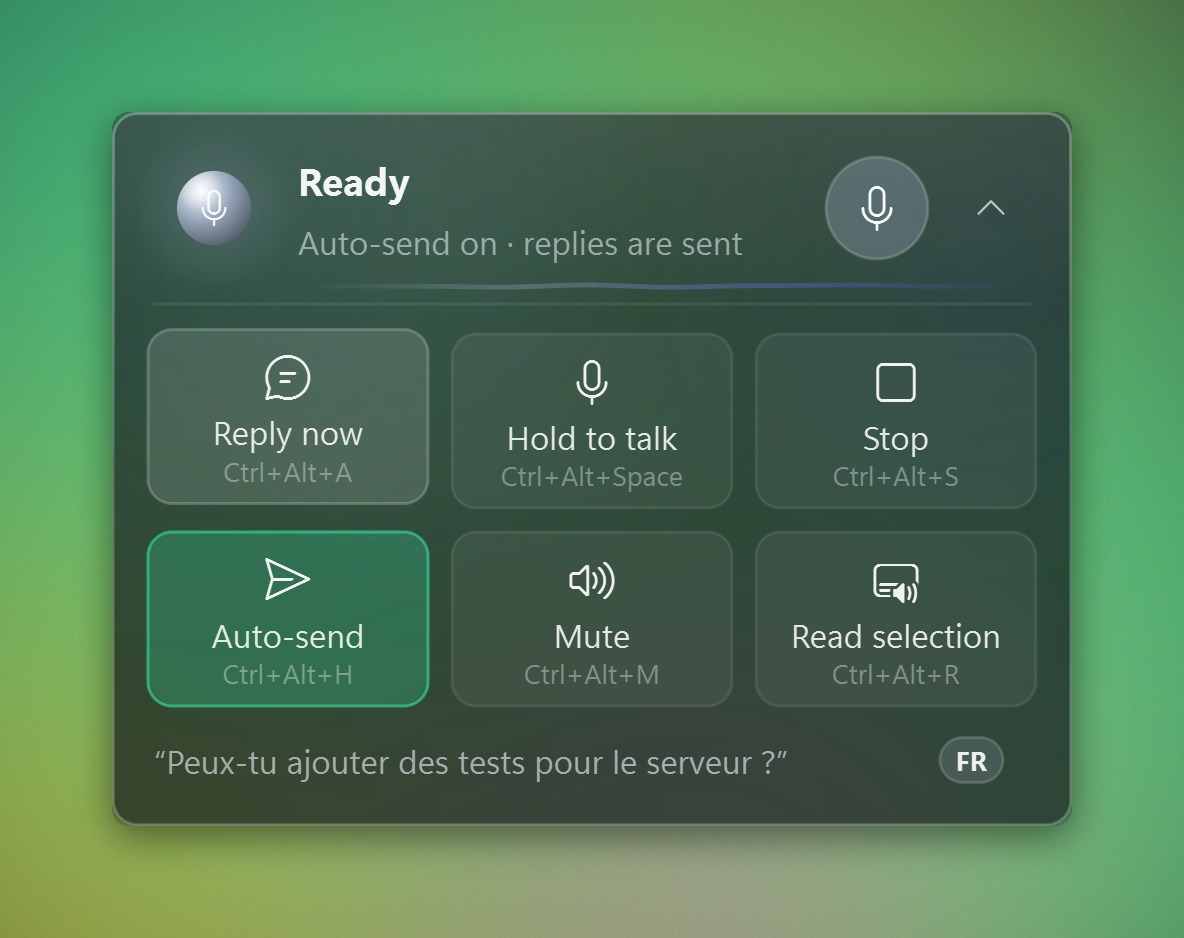
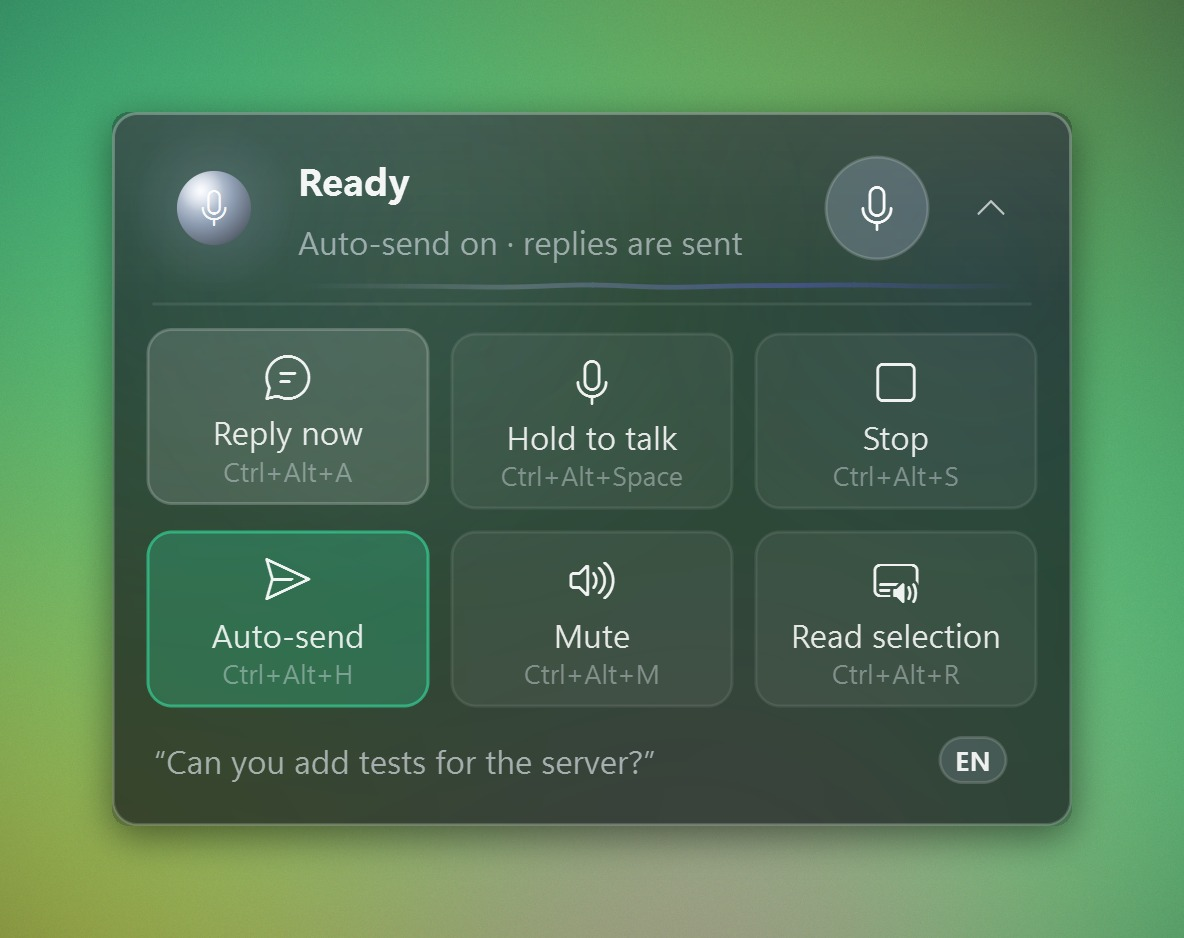
Docs: English-only examples, diagrams and rendered images

Changed region(s): [[0.125, 0.8038, 0.6562, 0.8348], [0.8125, 0.8038, 0.8438, 0.8348]]

diff --git a/scripts/render_docs.py b/scripts/render_docs.py
@@ -148,7 +148,7 @@ def render_states() -> None:
 
 
 def render_panel() -> None:
-    st = status("idle", hands_free=True, last_heard="Peux-tu ajouter des tests pour le serveur ?", last_heard_lang="fr")
+    st = status("idle", hands_free=True, last_heard="Can you add tests for the server?", last_heard_lang="en")
     w = make_widget(st, expanded=True)
     settle(w)
     w.hover = "reply"
@@ -185,11 +185,11 @@ def render_gif() -> None:
     """A short loop of a full conversation turn."""
     script = [
         ("idle", 1.0, {}),
-        ("speaking", 3.2, {"speaking_lang": "fr"}),
+        ("speaking", 3.2, {"speaking_lang": "en"}),
         ("waiting", 1.4, {}),
         ("recording", 2.6, {}),
         ("transcribing", 1.3, {}),
-        ("idle", 1.4, {"last_heard": "Oui, vas-y, déploie.", "last_heard_lang": "fr"}),
+        ("idle", 1.4, {"last_heard": "Yes, go ahead and deploy.", "last_heard_lang": "en"}),
     ]
     w = make_widget(status("idle"))
     settle(w)

diff --git a/agent_voice/widget.py b/agent_voice/widget.py
@@ -949,7 +949,7 @@ def run(demo: str | None = None) -> int:
     if demo:  # design preview: fake a status instead of polling the daemon
         w.poller.status.disconnect()
         fake = {"phase": demo, "level": 0.03, "speaking_lang": "fr", "hands_free": demo == "waiting",
-                "last_heard": "Peux-tu ajouter des tests pour le serveur ?", "last_heard_lang": "fr"}
+                "last_heard": "Can you add tests for the server?", "last_heard_lang": "en"}
         QTimer.singleShot(0, lambda: w._on_status(fake))
     app.setWindowIcon(orb_icon(QColor(PHASES["speaking"][0]), ICONS["volume"]))
     if not getattr(w, "start_hidden", False):

diff --git a/AGENTS.md b/AGENTS.md
@@ -71,7 +71,7 @@ The daemon and widget run as `pythonw` in the background. **Code changes need a 
 - **Acrylic only clips to DWM's native rounding.** `SetWindowRgn` does not clip the acrylic accent, so `RADIUS` must stay equal to Windows 11's `DWMWCP_ROUND` (8 px), with the system border hidden (`DWMWA_BORDER_COLOR = DWMWA_COLOR_NONE`).
 - **`sounddevice` can hang on a broken audio driver**: playback polls with a deadline instead of `sd.wait()`. Closing the mic stream can take ~1 s, so `cancel_listen()` updates the phase immediately.
 - **Claude `async` hooks may be killed on `Stop`**: only `PreToolUse` is async; `Stop` stays synchronous.
-- **Whisper hallucinates on silence** ("Merci.", "Thank you."): filtered by `stt.is_hallucination`.
+- **Whisper hallucinates on silence** ("Thank you." and its French equivalent): filtered by `stt.is_hallucination`.
 - **Python 3.14 lacks some wheels** (onnxruntime/ctranslate2 at the time of writing): use 3.13.
 - **Global hotkeys (`keyboard`) can't see apps running as administrator** unless the daemon is elevated too.
 - **`render_docs.py` replaces `widget.time`** with a fake clock; keep animation code reading time through the module-level `time` import.

diff --git a/README.md b/README.md
@@ -30,7 +30,7 @@ Everything runs **locally on the CPU**: no cloud, no API key, no audio leaving y
 
 <p align="center">
   <img src="docs/images/demo.gif" alt="The widget going through a full turn: speaking, listening, hearing you, transcribing" width="560">
-  <br><sub>One full turn: the agent speaks (FR) → the mic opens → you answer → transcription → typed into the agent.</sub>
+  <br><sub>One full turn: the agent speaks → the mic opens → you answer → transcription → typed into the agent.</sub>
 </p>
 
 ## ✨ Features
@@ -153,12 +153,12 @@ sequenceDiagram
     participant AV as agent-voice
     You->>Agent: prompt (window remembered)
     Agent-->>AV: progress text (PreToolUse)
-    AV-->>You: 🔊 "Je regarde le serveur…"
+    AV-->>You: 🔊 "Let me check the server…"
     Agent-->>AV: final answer (Stop)
     AV-->>You: 🔊 answer, FR/EN voices
     AV-->>You: 🔔 beep, mic open
-    You->>AV: 🎙 "Oui, vas-y, déploie."
-    AV->>AV: Whisper → "Oui, vas-y, déploie." (fr)
+    You->>AV: 🎙 "Yes, go ahead and deploy."
+    AV->>AV: Whisper → "Yes, go ahead and deploy." (en)
     AV->>Agent: typed into the prompt (+ Enter with auto-send)
 ```
 

diff --git a/docs/guide.md b/docs/guide.md
@@ -39,7 +39,7 @@ Connect your agent(s) and start everything:
 
 You should hear nothing yet, but you'll see the **glass widget** near the top-right corner and a small **orb icon** in the notification area (bottom right, next to the clock. Windows may tuck new icons behind the `^` arrow; drag it onto the taskbar to keep it visible).
 
-> **Tip:** `agent-voice say "Bonjour, ça marche ? And in English too."` is the quickest sound check.
+> **Tip:** `agent-voice say "Hello, this is a sound check."` is the quickest test. Mixed French and English text is read with both voices.
 
 ## 2. Your first conversation
 
@@ -102,7 +102,7 @@ The widget **never takes keyboard focus**: clicking it keeps your agent window a
 `name:speaker` picks a speaker inside multi-speaker models. Missing voices download automatically. Try one before switching:
 
 ```bash
-agent-voice say --voice fr_FR-tom-medium "Bonjour, je suis Tom."
+agent-voice say --voice en_US-ryan-high "Hello, I am Ryan."
 ```
 
 **Speed:** `"speed": 0.67` (about 1.5× faster than normal). `1.0` is the natural pace; lower is faster.
